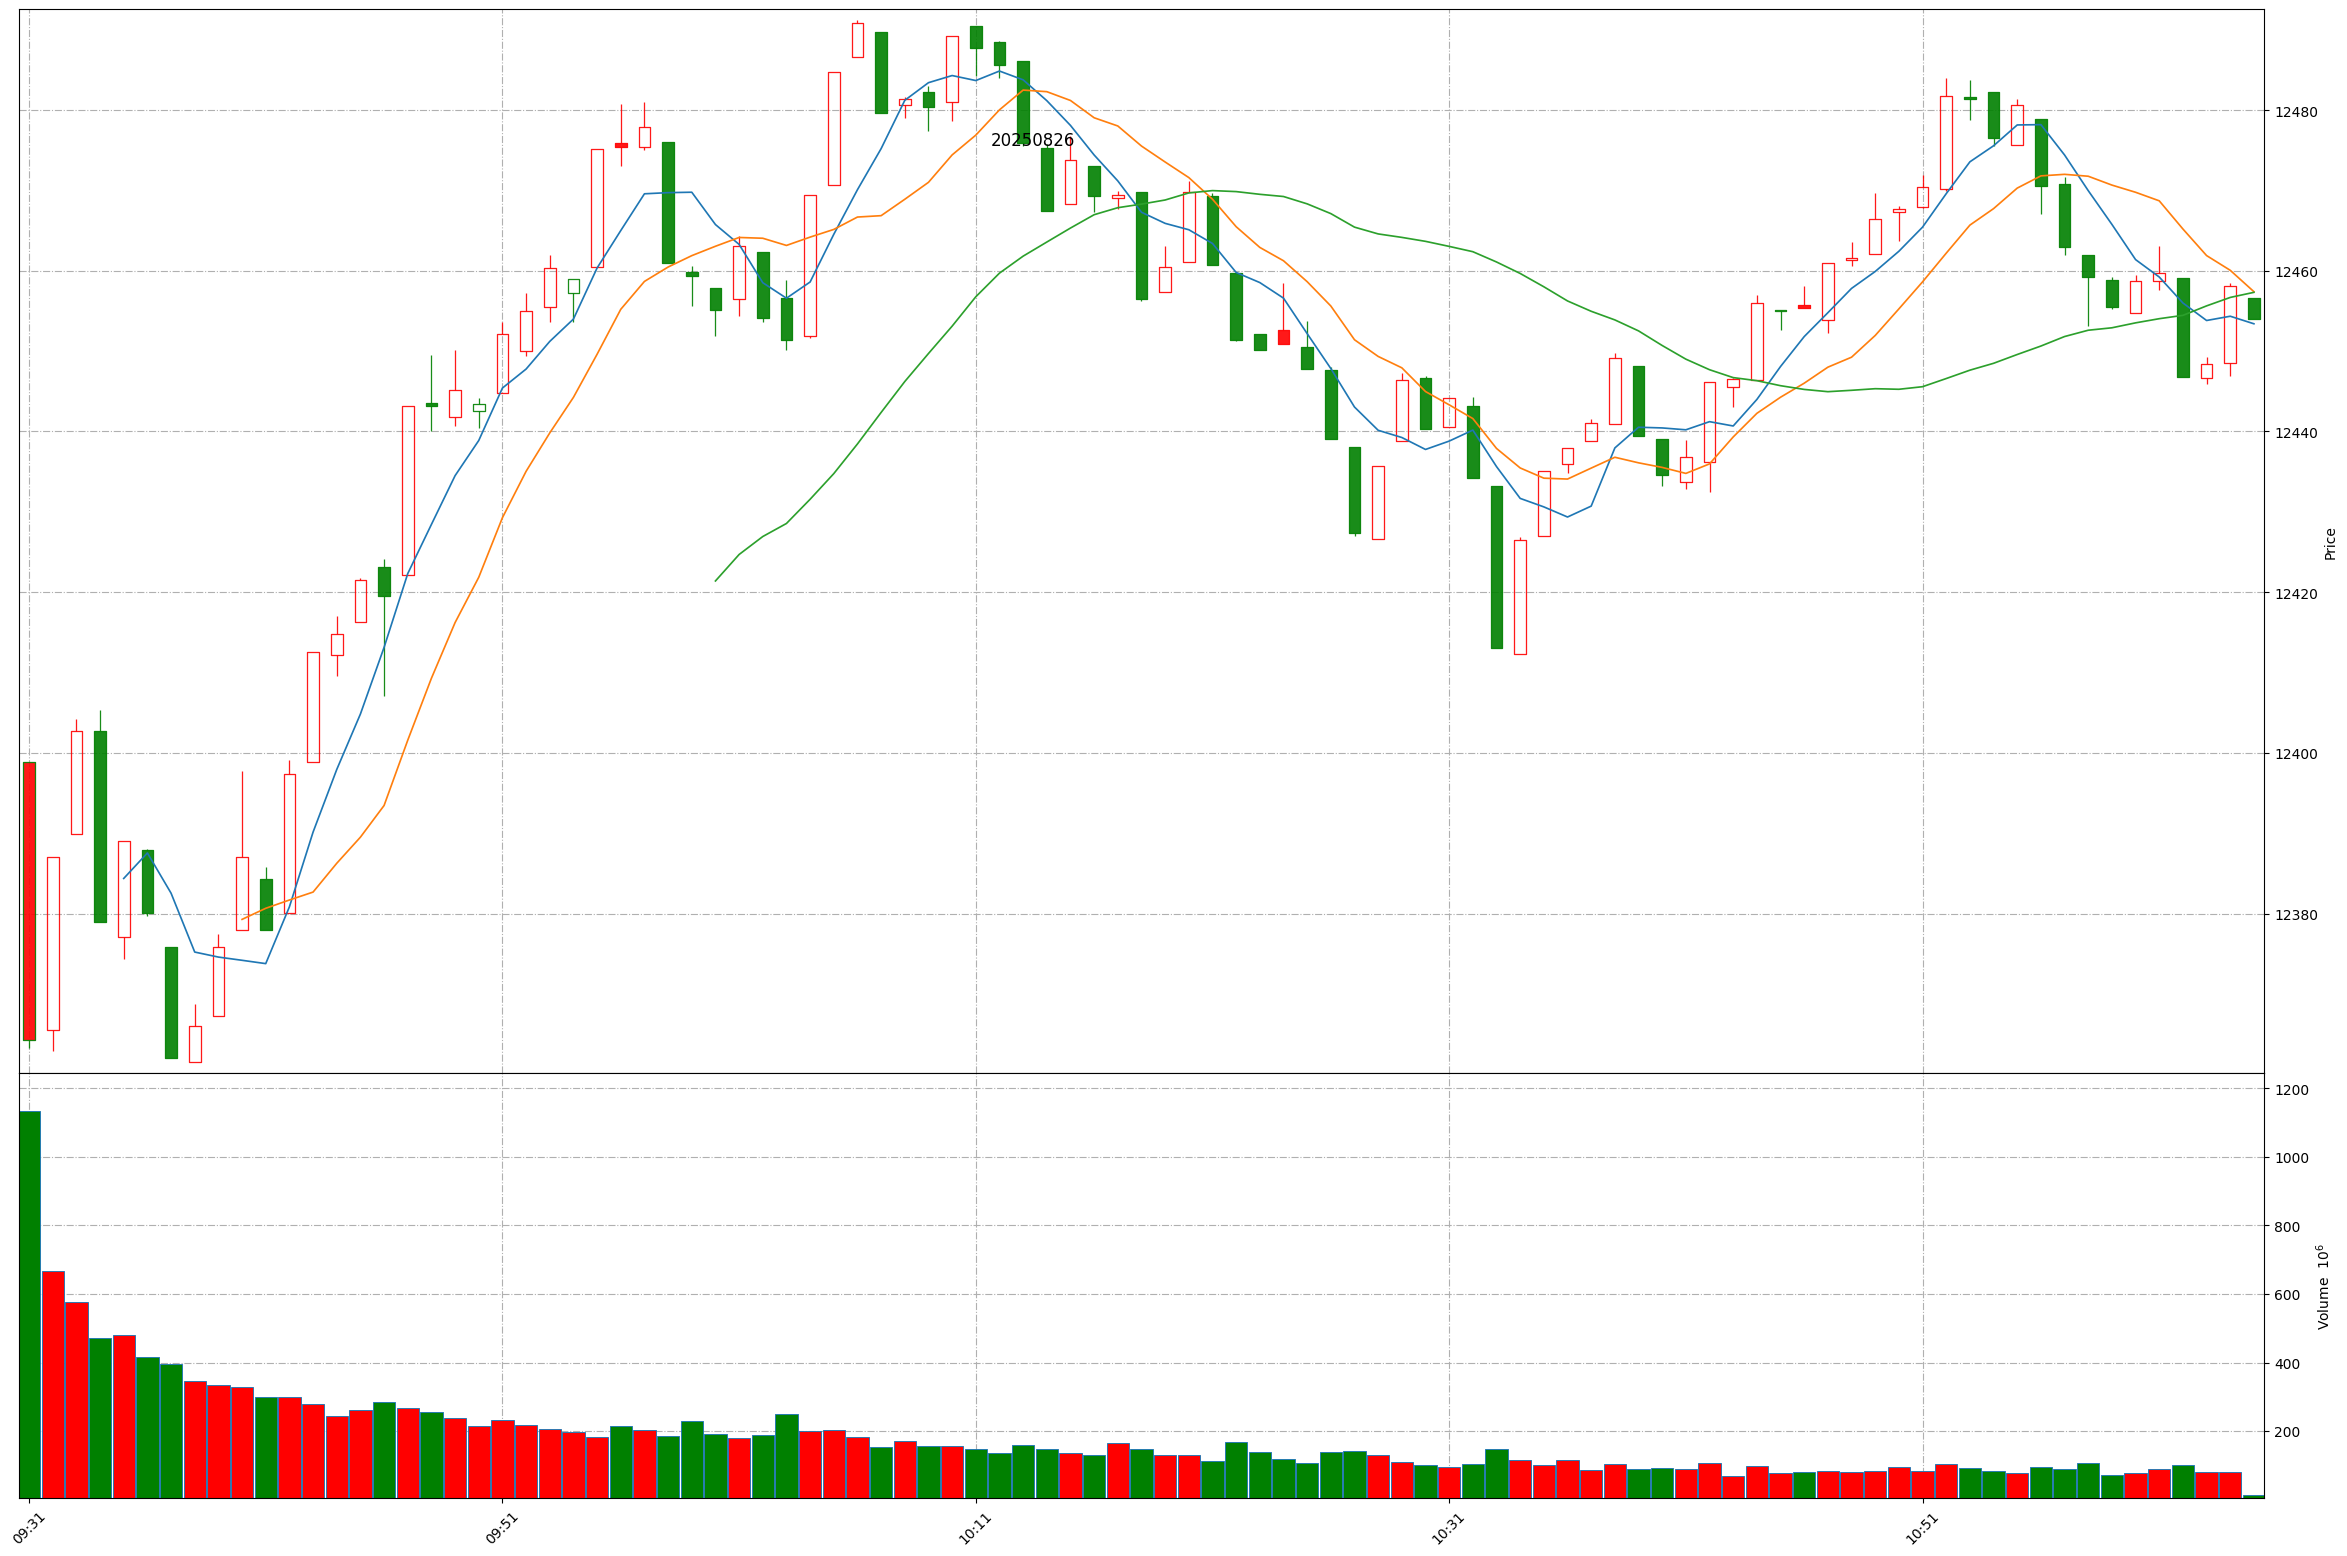
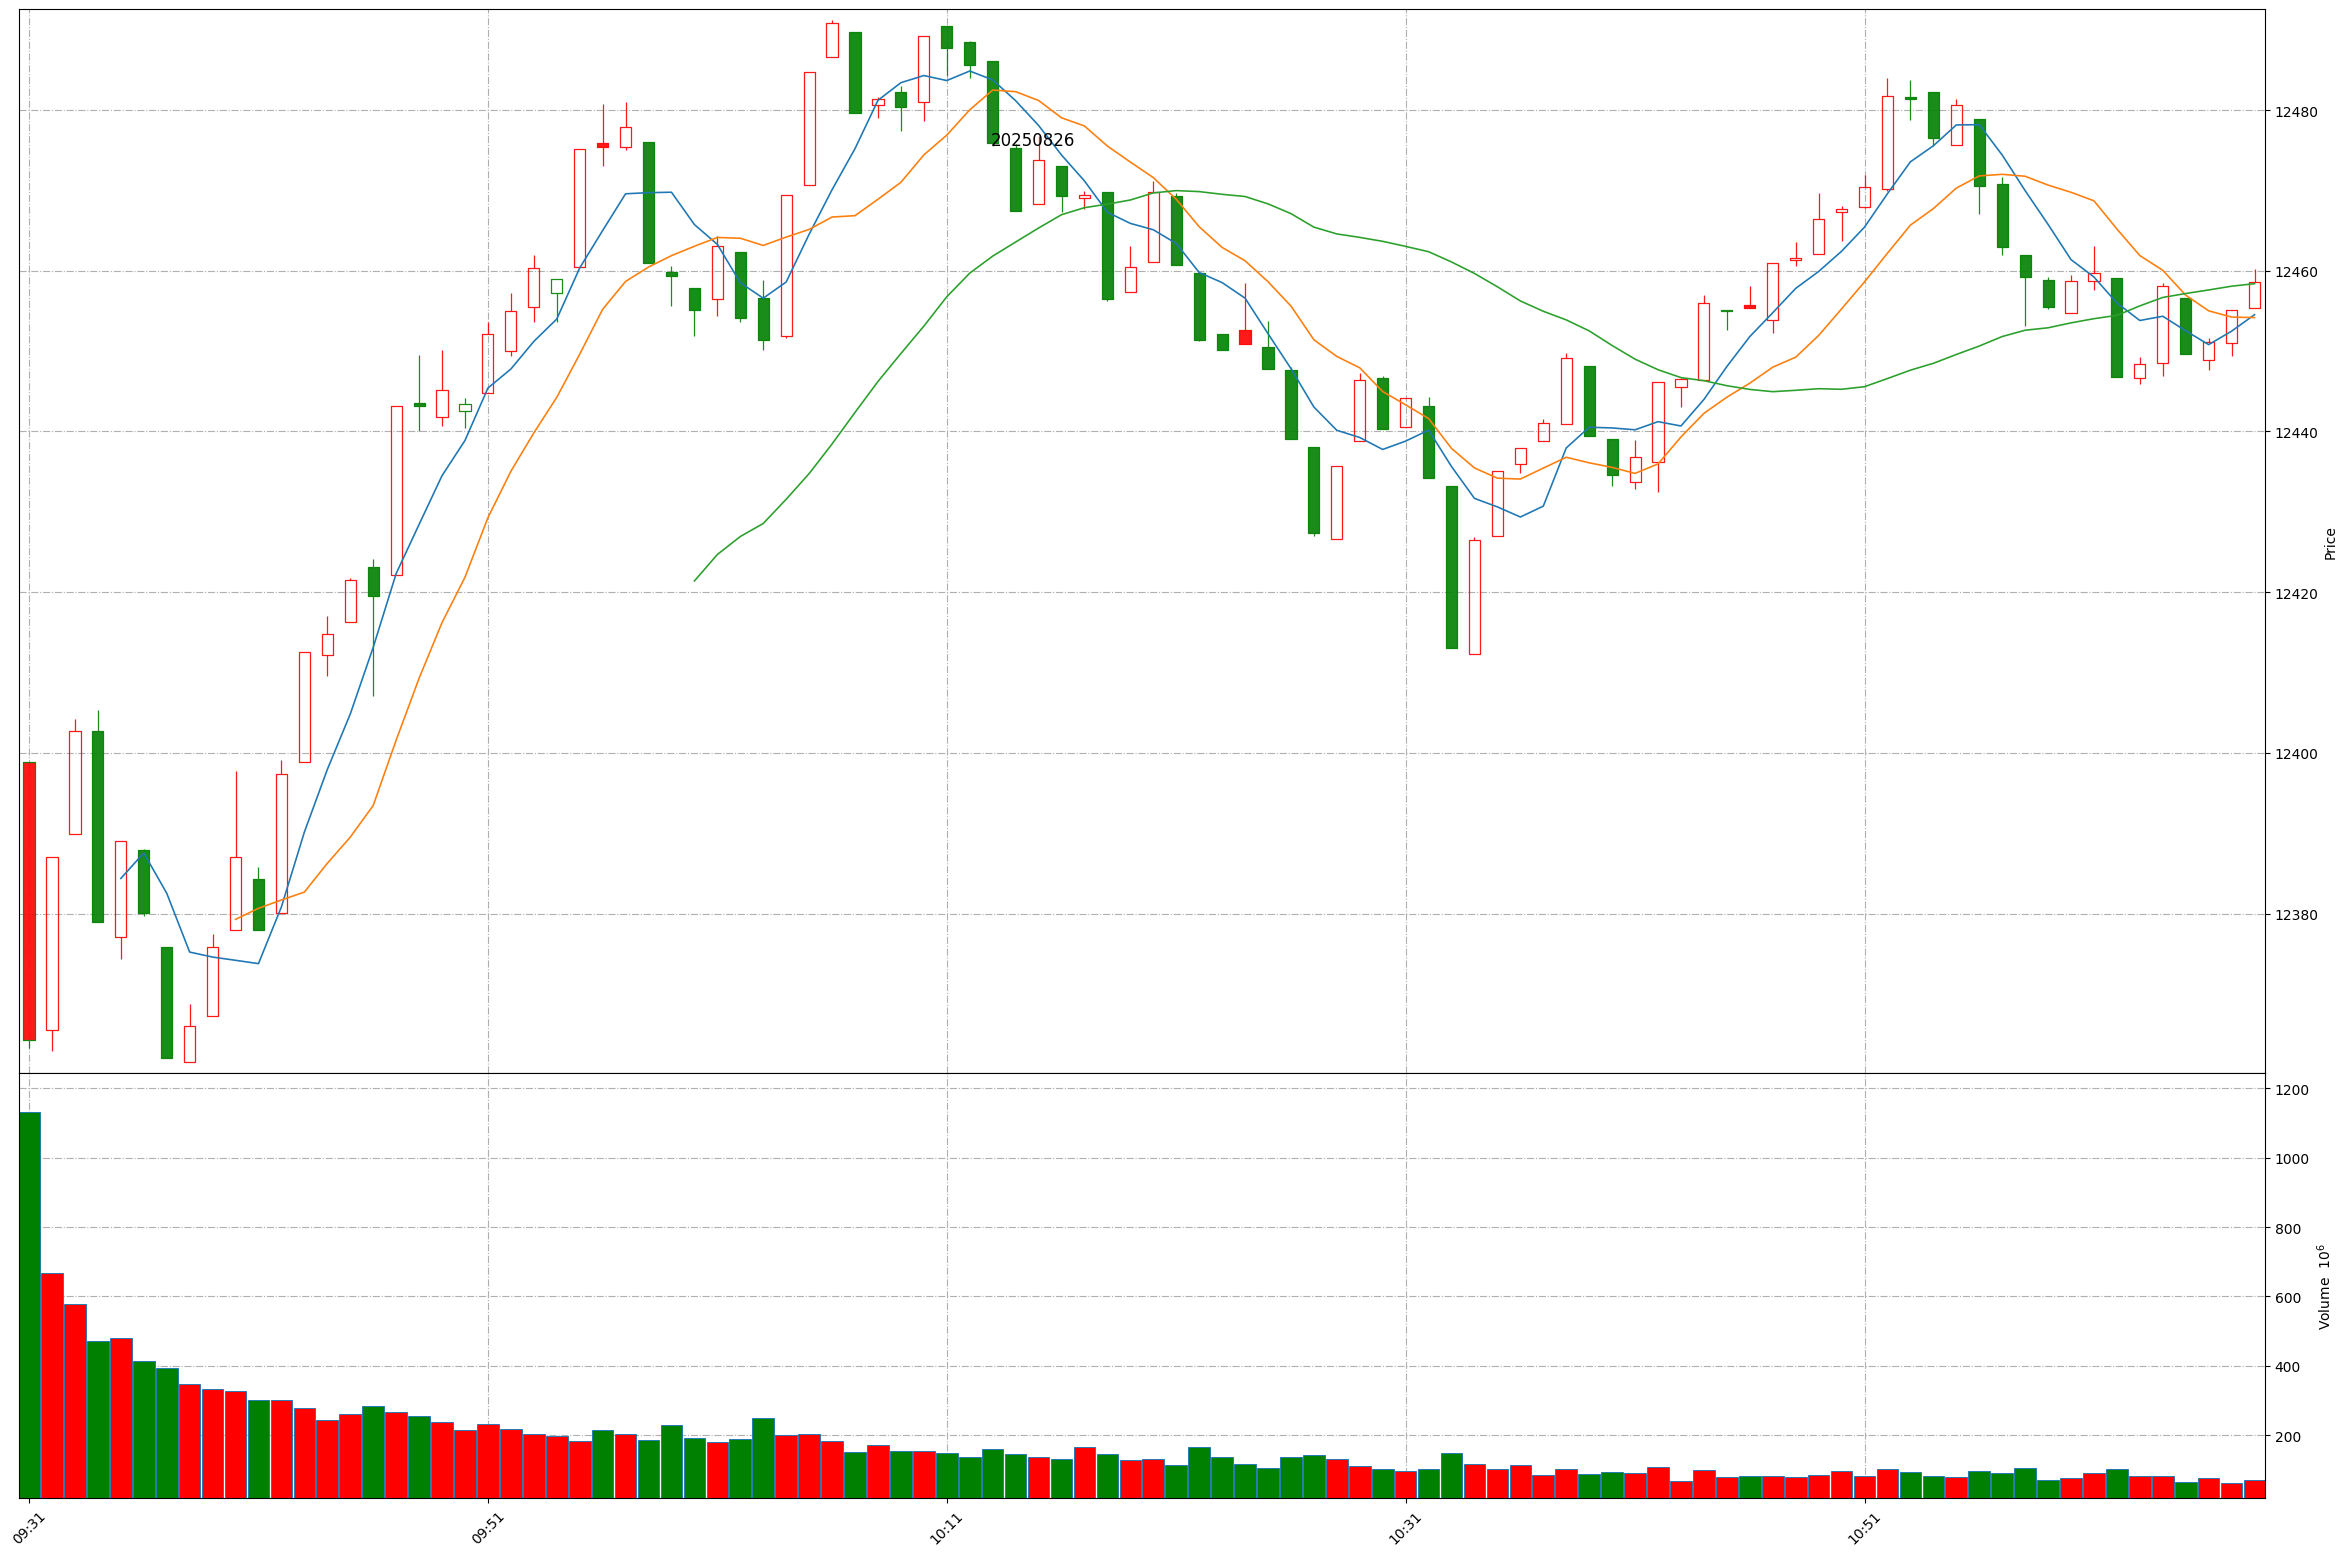
Github action update at 2025-08-26 11:08:22.

diff --git a/README.md b/README.md
@@ -1,11 +1,11 @@
 
 # Daily-A-share-market-quotes 每日 A 股指数（5min 更新）- 20250826
 
-### 上证指数 20250826 11:4
+### 上证指数 20250826 11:8
 ![](./fig/2025/8/20250826-sh000001.png)
 
-### 深证成指 20250826 11:4
+### 深证成指 20250826 11:8
 ![](./fig/2025/8/20250826-sz399001.png)
 
-### 北证50 20250826 11:4
+### 北证50 20250826 11:8
 ![](./fig/2025/8/20250826-bj899050.png)
